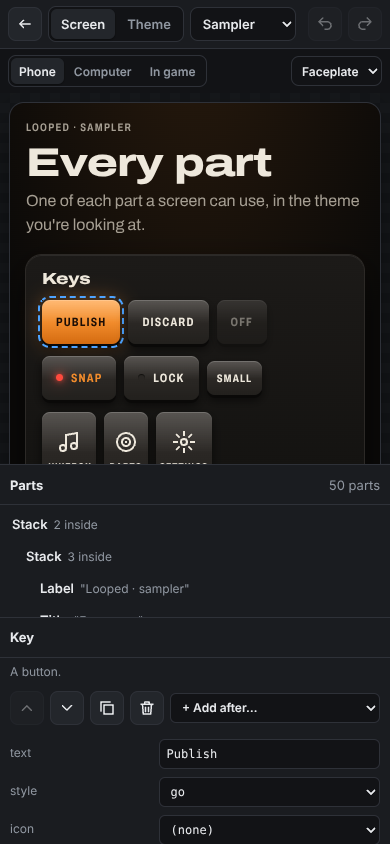
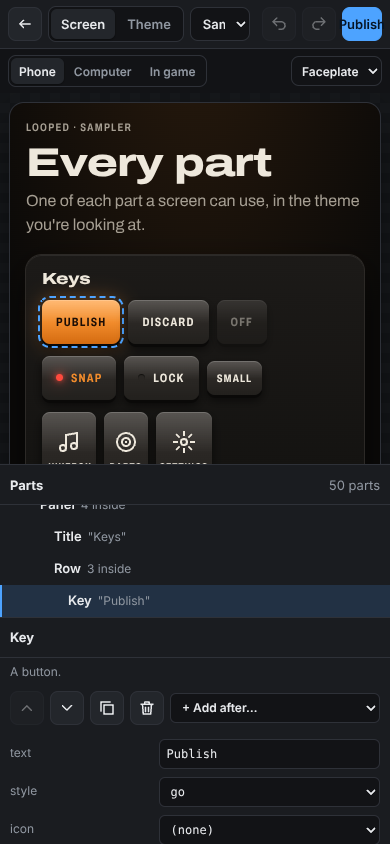
R1.7 Save and publish in the UI Editor: undo history, a draft kept on the phone (back after a reload), Publish keeps every version (toolbelt/ui-editor/api.php, the Studio's login, Claude's key), History, the editor starts from the newest published version; node tools/uikit.mjs pull/push/status bring

diff --git a/README.md b/README.md
@@ -6,6 +6,14 @@ benchmarks by `tools/bench.mjs` (see `bench.jsonl`).
 
 Latest benchmark (2026-10-22 18:44, 922ec64): gi_triangles_full 642040 tris, gi_triangles 99105 tris, gi_load_ms 167 ms, gi_simplify_ms 28 ms, gi_bvh_ms 239 ms, gi_patches 58292, gi_probes_usable 10128, gi_build_ms 6666 ms, gi_rays_per_s 0.59 M/s, gi_solve4_ms 12.6 ms
 
+## R1.7 Save and publish in the UI Editor: undo history, a draft kept on the phone (back after a reload), Publish keeps every version (toolbelt/ui-editor/api.php, the Studio's login, Claude's key), History, the editor starts from the newest published version; node tools/uikit.mjs pull/push/status bring it into the repo (ui/system/live-version.json), pulled at the start of every go; the engine reads theme files (looped/ui_theme.*, with a native test)
+
+`b394ba3` · 2026-10-24 04:09 · 18 files, +951 −81 · tests: quick, toolbelt
+
+Phone check: in the UI Editor change a colour, then tap Publish (top right): log in with your bar account, write a note, Publish; open Publish again: History shows v1 with your note; reload the page: your colour is still there
+
+![R1.7 page-toolbelt-ui-editor-index-sel-1-0-1-0.jpg](R1.7/page-toolbelt-ui-editor-index-sel-1-0-1-0.jpg)
+
 ## R1.6 Screen editing in the UI Editor: every option of the selected part (words, numbers, on/off, choices, icons, lists), move up and down, duplicate, delete, add a part after it or inside it, a new screen, the screen's name; deep link to a part (&sel=1.0.1.0); fix: the theme notes no longer overlap, the top bar fits a phone
 
 `0b6722f` · 2026-10-24 04:02 · 4 files, +148 −11 · tests: quick, toolbelt
